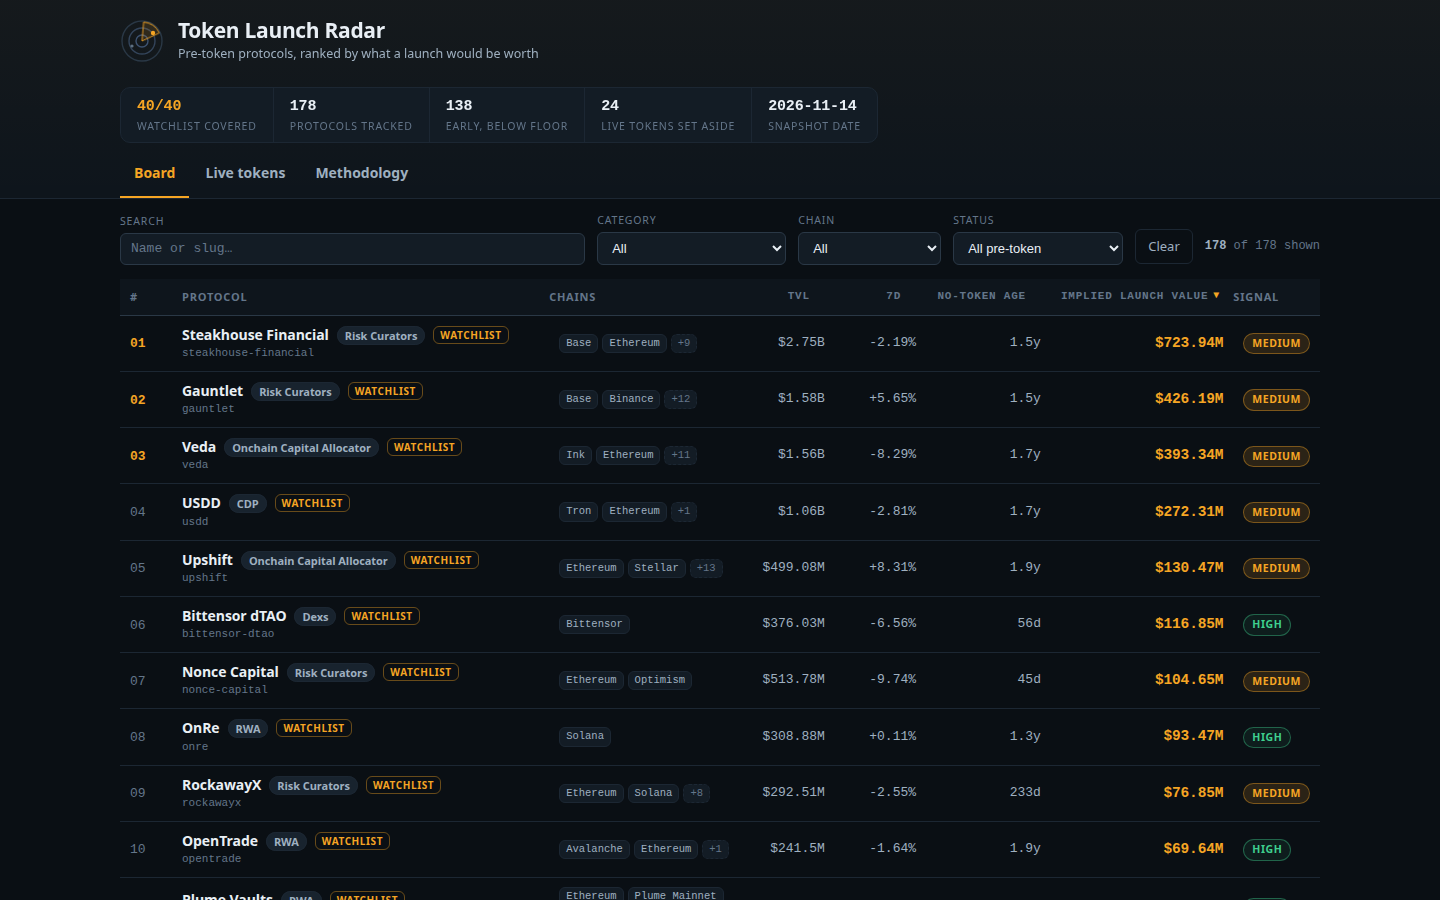
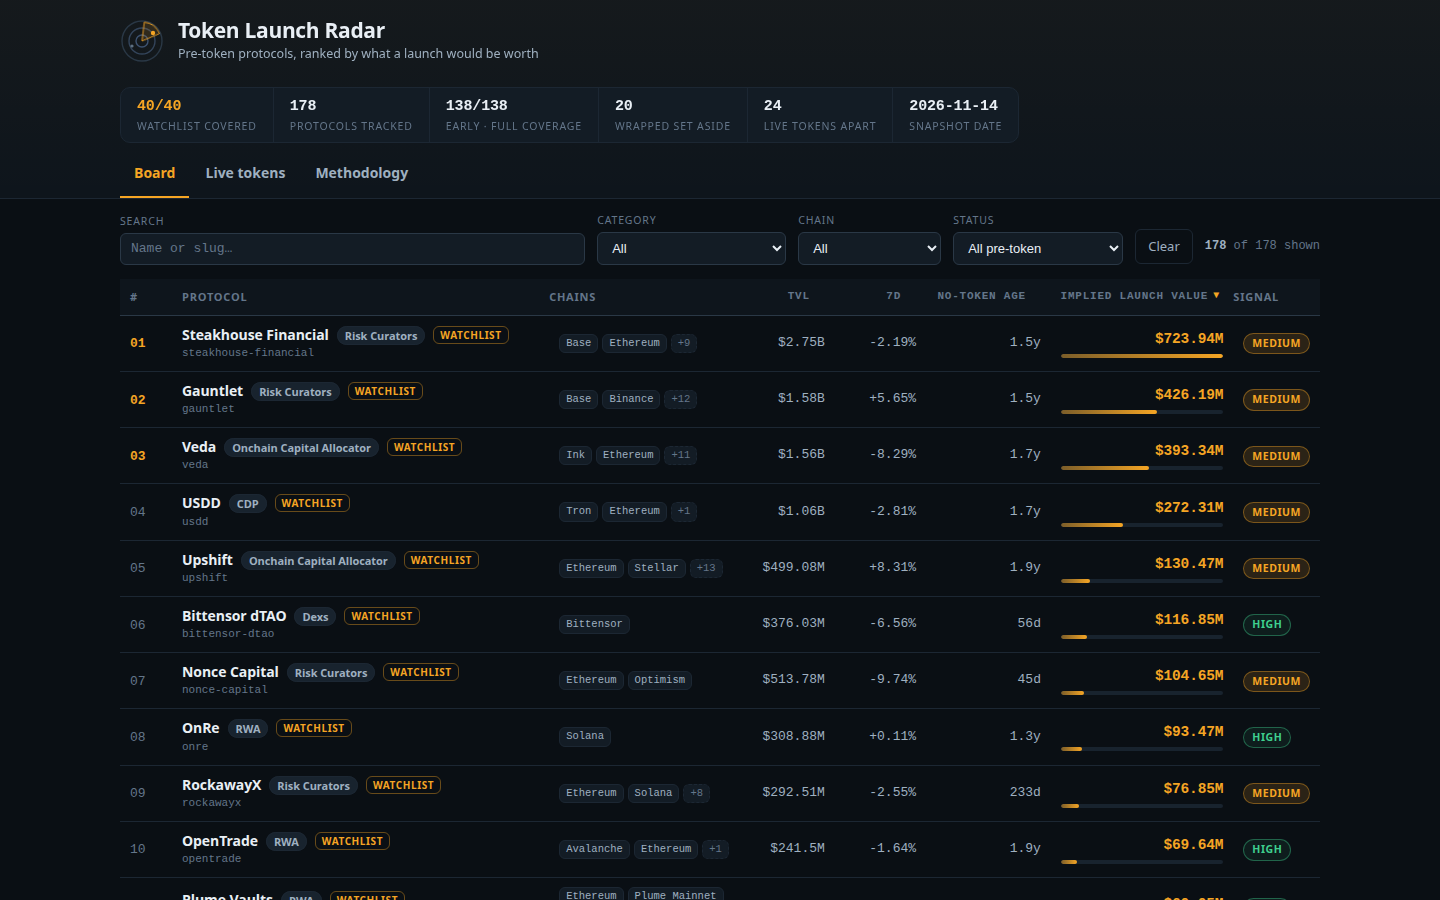
Improve coverage claim, category risk step, and value bars
- RadarData.set_aside_parent_products: the snapshot's own derived count of
  above-floor pre-token records DefiLlama ties to a parent product
- farm plan gains a step naming the position's main risk per category
  (impermanent loss, liquidation, bridge risk, slashing, ...) before entry
- board: amber value bars under implied values; stats show full early
  coverage (138/138) and the wrapped set-aside count
- methodology states the complete coverage claim with derived figures

diff --git a/lib/model.ts b/lib/model.ts
@@ -326,8 +326,41 @@ function actionFor(p: SnapshotProtocol, capital: number, chain: string, gas: { s
   return `Deposit ${money} of USDC into ${name} on ${chain} and keep the position open.`;
 }
 
+/** The position's main risk, from the category: named before the entry, in the farmer's words. */
+function riskFor(p: SnapshotProtocol): string {
+  const c = (p.category ?? '').toLowerCase();
+  if (c.includes('dex') || c.includes('liquidity') || c.includes('amm')) {
+    return 'impermanent loss: if one pool asset moves far from the other, the position can end up worth less than simply holding — size it so that outcome is acceptable';
+  }
+  if (c.includes('lend') || c.includes('cdp') || c.includes('collateral') || c.includes('stable')) {
+    return 'liquidation: if the collateral falls toward the borrow, the position is sold at a penalty — keep the borrow well under 40% LTV and check it weekly';
+  }
+  if (c.includes('perpetual') || c.includes('derivative') || c.includes('leverage')) {
+    return 'liquidation and funding: one adverse move can close a leveraged position, and funding eats it slowly — stay under 2x and close early';
+  }
+  if (c.includes('bridge')) {
+    return 'bridge risk: the funds depend on the bridge staying sound — bridge only what you plan to use and withdraw when you are done';
+  }
+  if (c.includes('staking') || c.includes('restak')) {
+    return 'slashing and unstaking delays: the stake can be penalized for validator faults and withdrawals can queue for days';
+  }
+  if (c.includes('yield') || c.includes('vault') || c.includes('curator') || c.includes('allocator') || c.includes('aggregate')) {
+    return 'strategy risk: the vault is managed by others and can underperform or take a bad deployment — read what it holds before depositing';
+  }
+  if (c.includes('rwa')) {
+    return 'issuer risk: the yield depends on an off-chain party honoring the asset — treat it as counterparty exposure, not a permissionless position';
+  }
+  if (c.includes('insurance')) {
+    return 'cover denial: claims can be refused for scope reasons — read what the policy actually covers before buying';
+  }
+  if (c.includes('launchpad') || c.includes('launch')) {
+    return 'lockups: funds can be committed before a sale completes and token unlocks can run long — enter only what you can leave';
+  }
+  return 'smart-contract risk: a bug in the protocol\'s contracts can take the deposited funds — check that audits and timelocks are published';
+}
+
 /**
- * A protocol's farm plan: seven steps, each an action with a cost and a time, derived from the
+ * A protocol's farm plan: eight steps, each an action with a cost and a time, derived from the
  * protocol's own record (category, chains, TVL, age) — never from a hand-kept list of names.
  */
 export function farmSteps(p: SnapshotProtocol, age: number | null): FarmStep[] {
@@ -341,6 +374,11 @@ export function farmSteps(p: SnapshotProtocol, age: number | null): FarmStep[] {
       text: 'Open a fresh wallet that holds only the funds you plan to farm, and keep its seed phrase offline.',
       cost: `under ${gasUsd(gas.setup)} to fund it`,
       time: '5 minutes',
+    },
+    {
+      text: `Know the position's main risk before you enter: ${riskFor(p)}.`,
+      cost: 'nothing — the check is reading, not spending',
+      time: '10 minutes before you deposit',
     },
     {
       text: actionFor(p, capital, chain, gas),
@@ -454,6 +492,9 @@ export interface RadarData {
   board_size: number;
   early_size: number;
   live_size: number;
+  /** Pre-token protocols at or above the floor the watchlist's parent rule sets aside (derived: the
+   * count is the snapshot's own — rankable above floor minus the watchlist). */
+  set_aside_parent_products: number;
   anchors: CategoryAnchor[];
   anchor_global: number;
   readiness_notes: string[];
@@ -545,6 +586,12 @@ export function buildRadar(snapshot: Snapshot, model: ModelConstants = MODEL): {
   const { board, anchors, global } = buildBoard(snapshot, model);
   const live = liveRows(snapshot);
   const early = board.filter((r) => !snapshot.watchlist.includes(r.slug)).length;
+  // Every rankable pre-token protocol below the floor is already on the board, so the radar's early
+  // coverage is complete. Above the floor, the watchlist is the rankable set minus the ones
+  // DefiLlama ties to a parent protocol (the wrapped and staked products): the snapshot's own counts
+  // give that number, and the page states it rather than hiding it.
+  const rankableAboveFloor = snapshot.protocols.filter((p) => p.tvl_usd >= snapshot.floor_usd && isRankable(p)).length;
+  const setAside = Math.max(0, rankableAboveFloor - snapshot.watchlist.length);
   const radar: RadarData = {
     entry_title: ENTRY_TITLE,
     model_version: MODEL_VERSION,
@@ -556,6 +603,7 @@ export function buildRadar(snapshot: Snapshot, model: ModelConstants = MODEL): {
     board_size: board.length,
     early_size: early,
     live_size: live.length,
+    set_aside_parent_products: setAside,
     anchors,
     anchor_global: global,
     readiness_notes: [

diff --git a/dashboard/app.js b/dashboard/app.js
@@ -143,8 +143,9 @@
     var watchCovered = R.rows.filter(function (r) { return r.tvl_usd >= R.floor_usd; }).length;
     stat(watchCovered + '/' + R.watchlist_size, 'watchlist covered', true);
     stat(String(R.board_size), 'protocols tracked');
-    stat(String(R.early_size), 'early, below floor');
-    stat(String(R.live_size), 'live tokens set aside');
+    stat(R.early_size + '/' + R.early_size, 'early · full coverage');
+    stat(String(R.set_aside_parent_products), 'wrapped set aside');
+    stat(String(R.live_size), 'live tokens apart');
     stat(R.as_of, 'snapshot date');
   }
 
@@ -153,6 +154,7 @@
     var empty = document.getElementById('empty');
     tbody.textContent = '';
     var rows = sorted(filtered());
+    var topValue = R.rows[0] && R.rows[0].implied_value_usd ? R.rows[0].implied_value_usd : 1;
     document.getElementById('count').textContent = '';
     document.getElementById('count').appendChild(el('b', { text: String(rows.length) }));
     document.getElementById('count').appendChild(document.createTextNode(' of ' + R.board_size + ' shown'));
@@ -179,7 +181,10 @@
       tr.appendChild(el('td', { class: 'c-num' }, document.createTextNode(fmtUsd(row.tvl_usd))));
       tr.appendChild(el('td', { class: 'c-num ' + fmtPctClass(row.change_7d) }, document.createTextNode(fmtPct(row.change_7d))));
       tr.appendChild(el('td', { class: 'c-num' }, document.createTextNode(fmtAge(row.age_days))));
-      tr.appendChild(el('td', { class: 'c-num c-value' }, el('span', { class: 'value-big', text: fmtUsd(row.implied_value_usd) })));
+      var valueCell = el('td', { class: 'c-num c-value' }, el('span', { class: 'value-big', text: fmtUsd(row.implied_value_usd) }));
+      var valueBar = el('div', { class: 'value-bar' }, el('i', { style: 'width:' + Math.max(2, Math.round(row.implied_value_usd / topValue * 100)) + '%' }));
+      valueCell.appendChild(valueBar);
+      tr.appendChild(valueCell);
       tr.appendChild(el('td', { class: 'c-conf' }, el('span', { class: 'badge ' + row.confidence, text: row.confidence })));
       tbody.appendChild(tr);
     });
@@ -357,6 +362,7 @@
     var ul = el('ul', { class: 'readiness-list' });
     [
       'one sealed snapshot: no yield rates, team history, funding or points data — only what DefiLlama recorded',
+      'coverage is complete: the board ranks all ' + R.board_size + ' rankable pre-token protocols — the whole ' + R.watchlist_size + '-protocol watchlist plus every one below the $' + Math.round(R.floor_usd / 1e6) + 'M floor; the ' + R.set_aside_parent_products + ' above-floor records DefiLlama ties to a parent product sit out with the wrapped tokens',
       'a protocol that records no token may still have one DefiLlama does not carry',
       'an implied value is a launch scenario under the stated model, never a price prediction',
       'gas and capital figures in farm plans are tier estimates, not quotes',

diff --git a/dashboard/app.css b/dashboard/app.css
@@ -174,6 +174,8 @@ td.c-num { color: var(--ink-2); }
 
 .c-value { width: 170px; }
 .value-big { font-family: var(--mono); font-size: 14.5px; font-weight: 700; color: var(--amber); font-variant-numeric: tabular-nums; letter-spacing: -0.01em; }
+.value-bar { height: 4px; margin-top: 4px; border-radius: 999px; background: var(--bg3); overflow: hidden; }
+.value-bar i { display: block; height: 100%; background: linear-gradient(90deg, rgba(245, 165, 36, 0.45), var(--amber)); border-radius: 999px; }
 
 .c-conf { width: 84px; }
 .badge {
